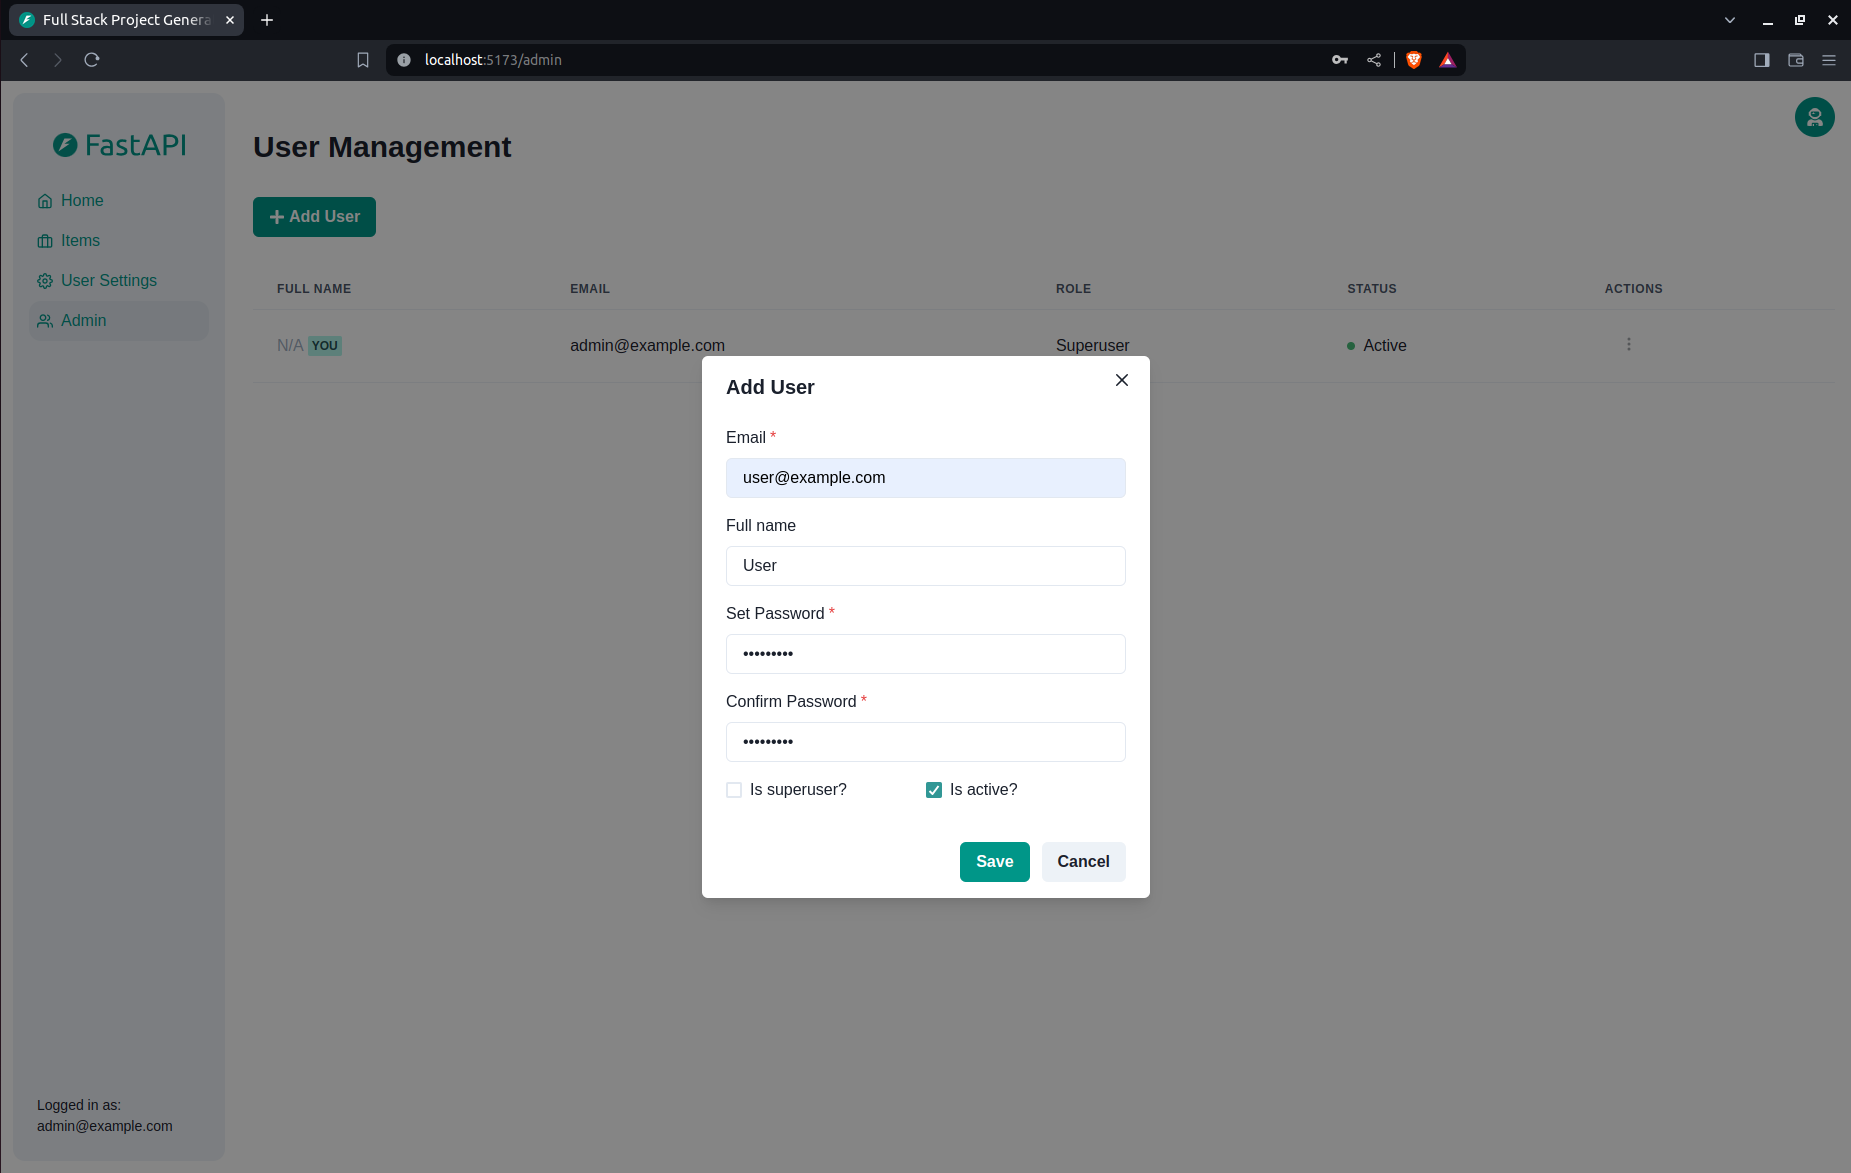
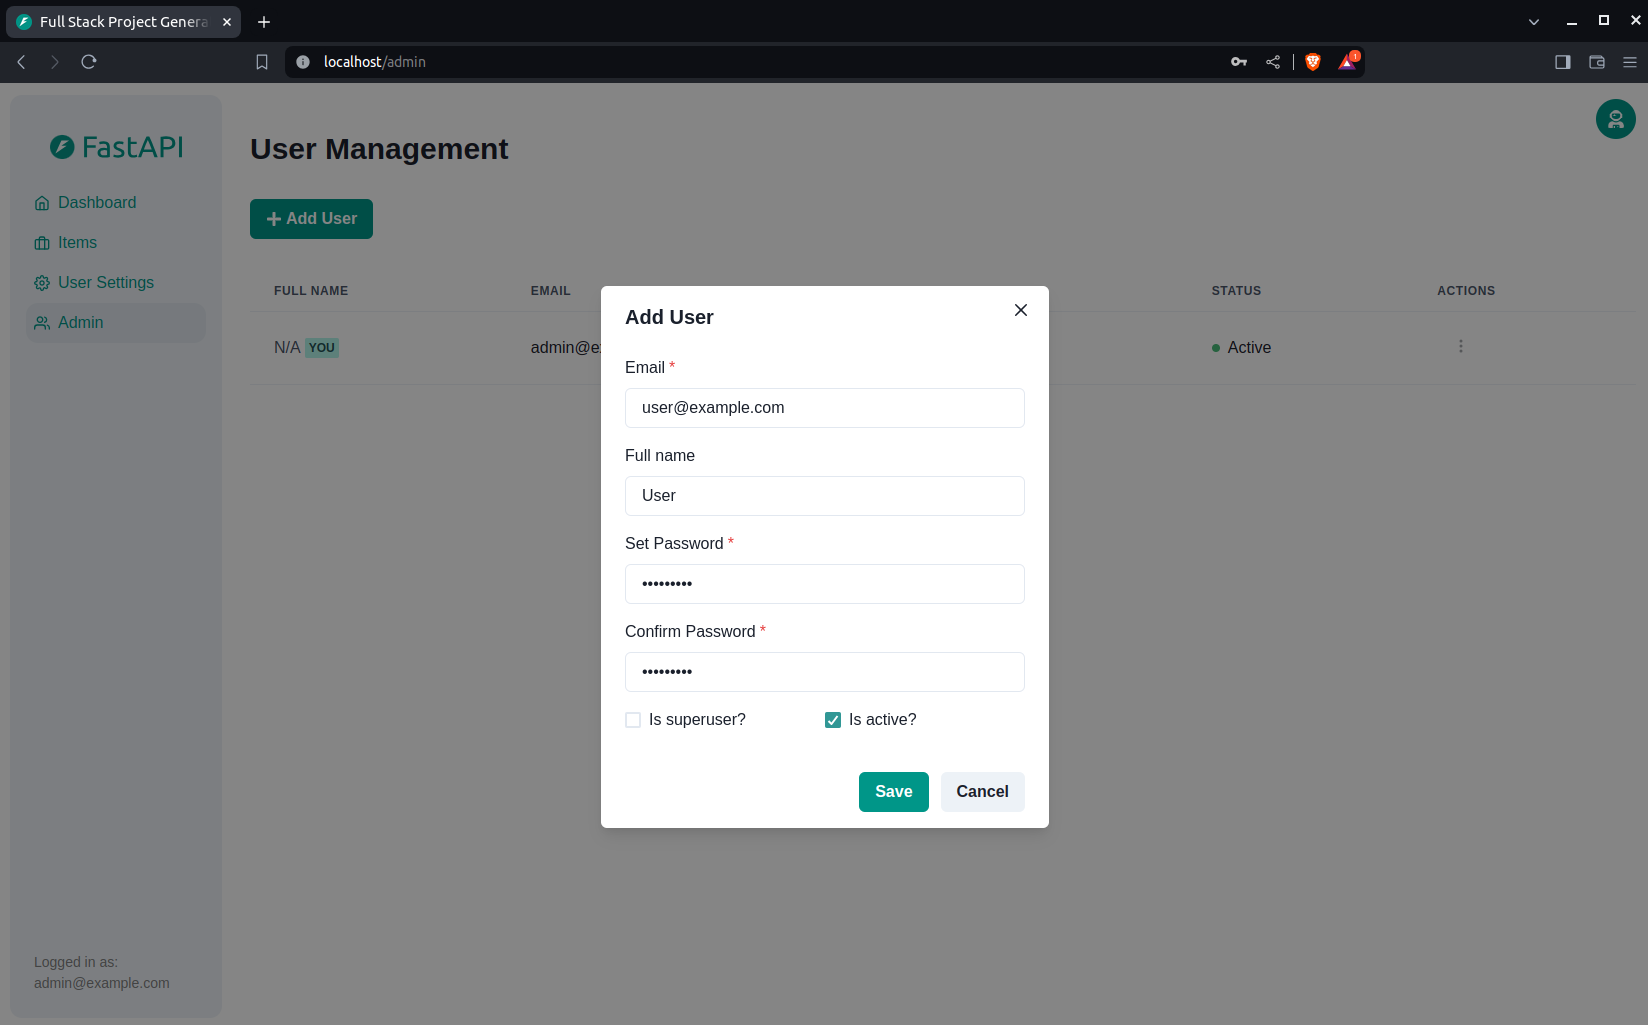
◀ Revert "📸 Rename Dashboard to Home and update screenshots" (#697)
This reverts commit 5cf7ab0a6bac6e831e22e89aaf69818e8d03bd4e.

diff --git a/frontend/src/components/Common/SidebarItems.tsx b/frontend/src/components/Common/SidebarItems.tsx
@@ -7,7 +7,7 @@ import { useQueryClient } from 'react-query'
 import { UserOut } from '../../client'
 
 const items = [
-  { icon: FiHome, title: 'Home', path: '/' },
+  { icon: FiHome, title: 'Dashboard', path: '/' },
   { icon: FiBriefcase, title: 'Items', path: '/items' },
   { icon: FiSettings, title: 'User Settings', path: '/settings' },
 ]
